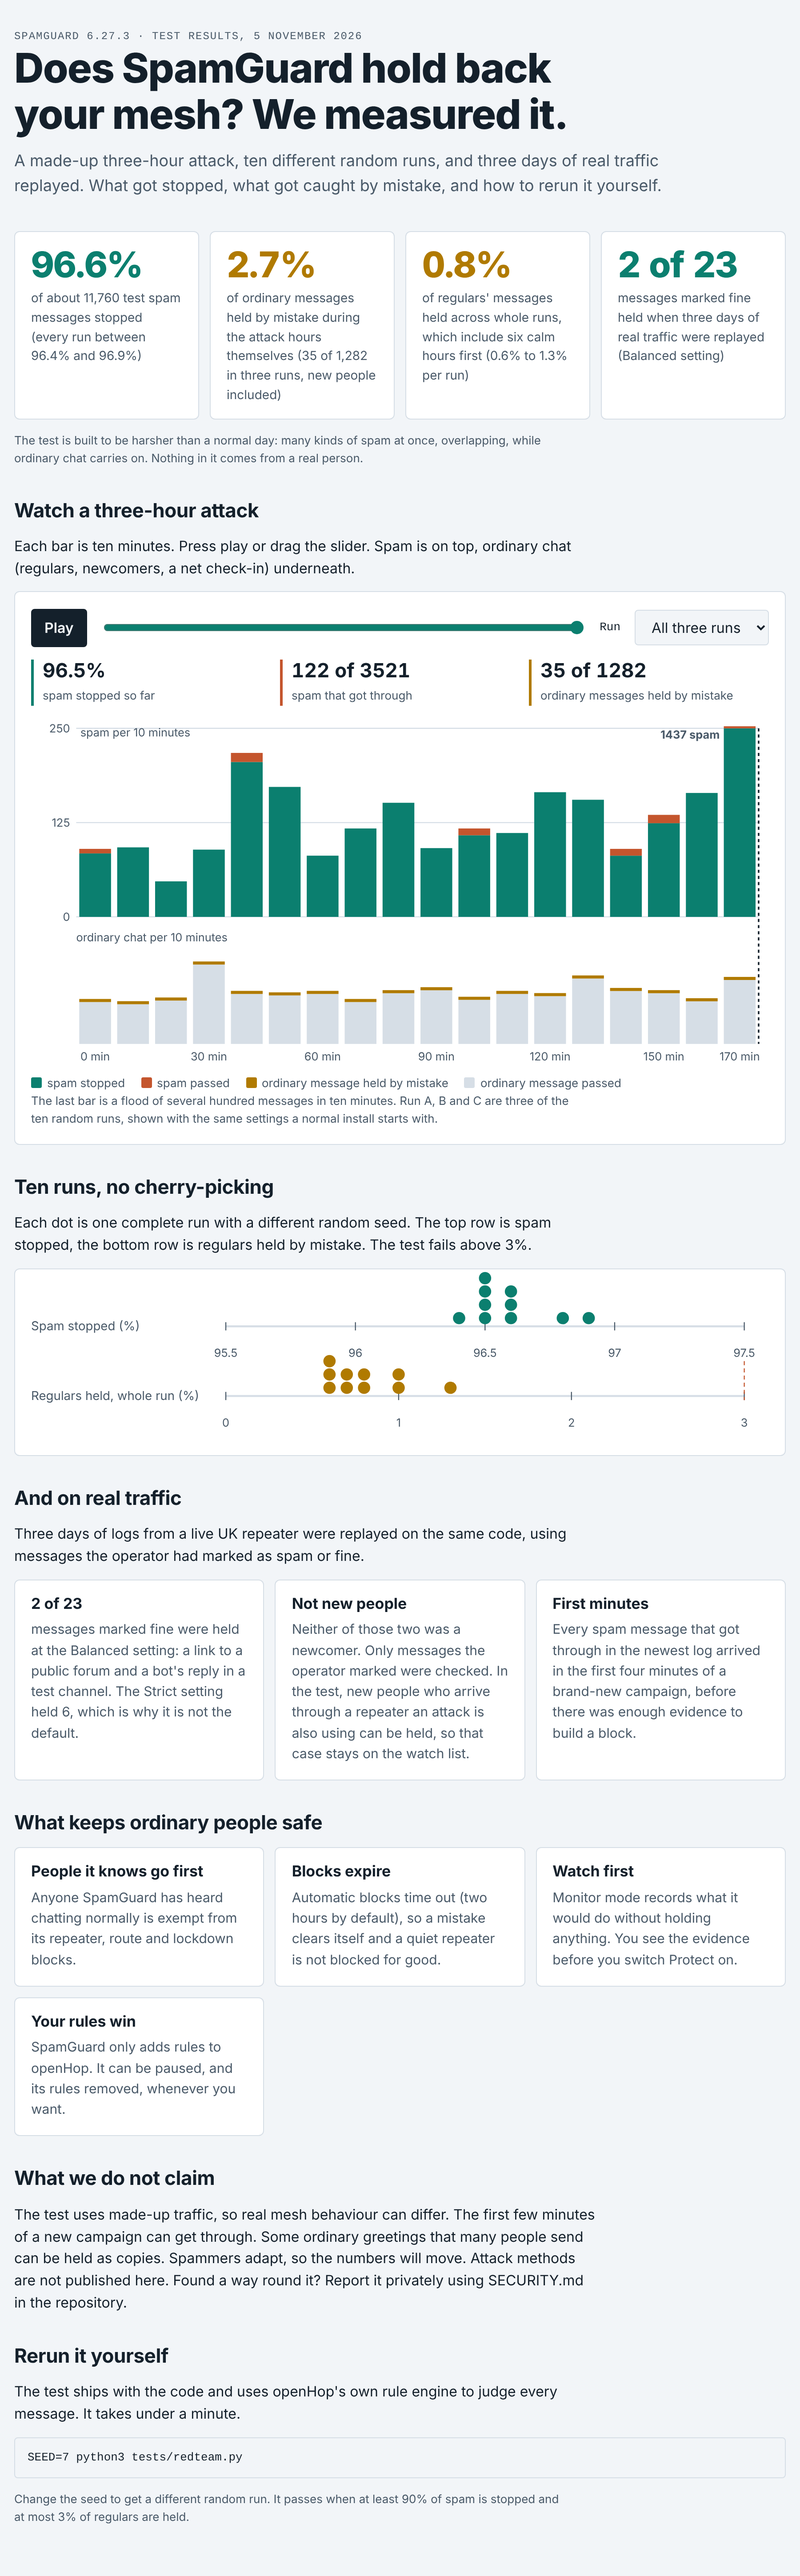
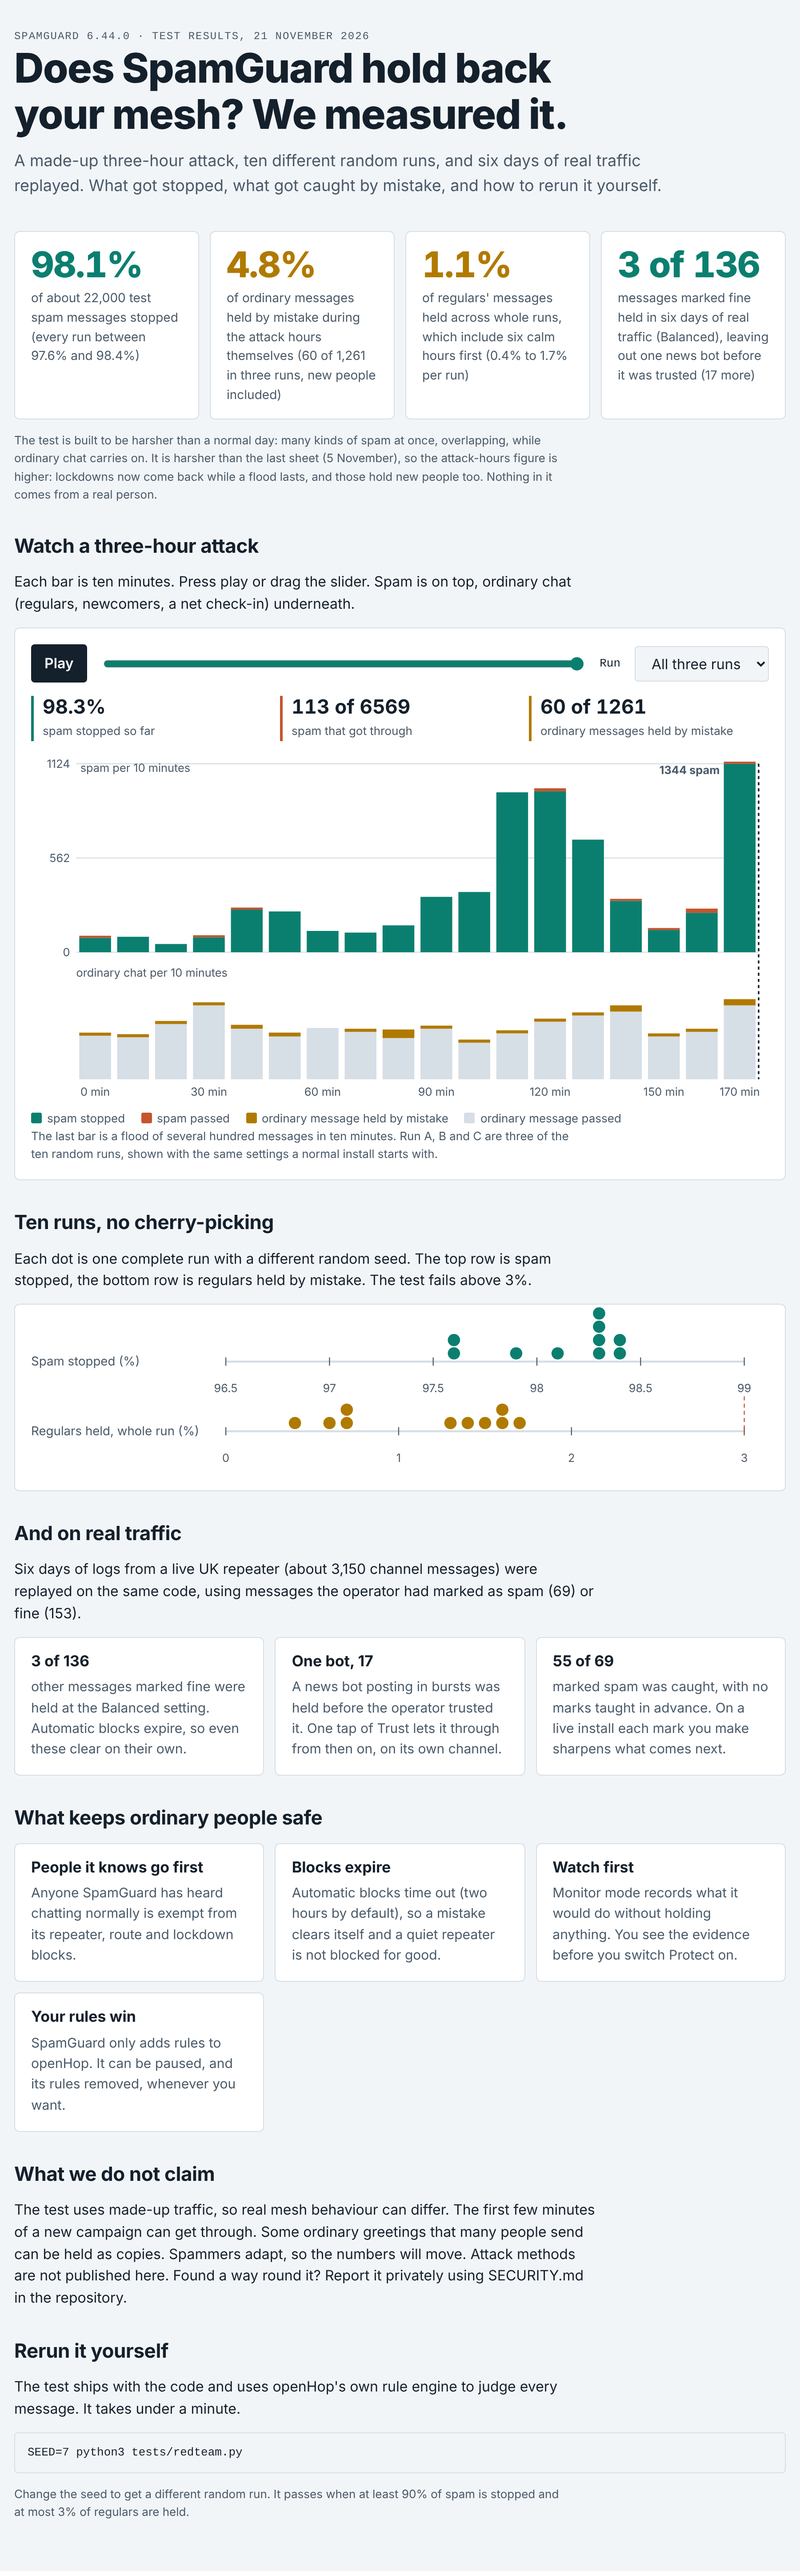
Refresh proof page and People screenshot for 6.44.0 (#107)
New figures from ten red team runs and six days of replayed traffic,
and a People screenshot showing the trust and marks details.

Claude-Session: https://claude.ai/code/session_01Pgqm4Xa1efNsThaFFNfH7N

diff --git a/docs/proof-sheet.html b/docs/proof-sheet.html
@@ -62,19 +62,19 @@ svg text{fill:var(--ink2);font-family:var(--sans)}
 <body>
 <main>
   <header>
-    <div class="eyebrow">SpamGuard 6.27.3 · test results, 5 November 2026</div>
+    <div class="eyebrow">SpamGuard 6.44.0 · test results, 21 November 2026</div>
     <h1>Does SpamGuard hold back your mesh? We measured it.</h1>
-    <p class="lede">A made-up three-hour attack, ten different random runs, and three days of real traffic replayed. What got stopped, what got caught by mistake, and how to rerun it yourself.</p>
+    <p class="lede">A made-up three-hour attack, ten different random runs, and six days of real traffic replayed. What got stopped, what got caught by mistake, and how to rerun it yourself.</p>
   </header>
 
   <section aria-label="Headline numbers">
     <div class="nums">
-      <div class="num good"><b>96.6%</b><span>of about 11,760 test spam messages stopped (every run between 96.4% and 96.9%)</span></div>
-      <div class="num warn"><b>2.7%</b><span>of ordinary messages held by mistake during the attack hours themselves (35 of 1,282 in three runs, new people included)</span></div>
-      <div class="num warn"><b>0.8%</b><span>of regulars' messages held across whole runs, which include six calm hours first (0.6% to 1.3% per run)</span></div>
-      <div class="num good"><b>2 of 23</b><span>messages marked fine held when three days of real traffic were replayed (Balanced setting)</span></div>
+      <div class="num good"><b>98.1%</b><span>of about 22,000 test spam messages stopped (every run between 97.6% and 98.4%)</span></div>
+      <div class="num warn"><b>4.8%</b><span>of ordinary messages held by mistake during the attack hours themselves (60 of 1,261 in three runs, new people included)</span></div>
+      <div class="num warn"><b>1.1%</b><span>of regulars' messages held across whole runs, which include six calm hours first (0.4% to 1.7% per run)</span></div>
+      <div class="num good"><b>3 of 136</b><span>messages marked fine held in six days of real traffic (Balanced), leaving out one news bot before it was trusted (17 more)</span></div>
     </div>
-    <p class="note">The test is built to be harsher than a normal day: many kinds of spam at once, overlapping, while ordinary chat carries on. Nothing in it comes from a real person.</p>
+    <p class="note">The test is built to be harsher than a normal day: many kinds of spam at once, overlapping, while ordinary chat carries on. It is harsher than the last sheet (5 November), so the attack-hours figure is higher: lockdowns now come back while a flood lasts, and those hold new people too. Nothing in it comes from a real person.</p>
   </section>
 
   <section aria-labelledby="tl">
@@ -111,16 +111,16 @@ svg text{fill:var(--ink2);font-family:var(--sans)}
   <section aria-labelledby="runs">
     <h2 id="runs">Ten runs, no cherry-picking</h2>
     <p>Each dot is one complete run with a different random seed. The top row is spam stopped, the bottom row is regulars held by mistake. The test fails above 3%.</p>
-    <div class="card"><svg id="dots" viewBox="0 0 720 150" role="img" aria-label="Ten test runs: spam stopped between 96.4 and 96.9 percent, regulars held between 0.6 and 1.3 percent"></svg></div>
+    <div class="card"><svg id="dots" viewBox="0 0 720 150" role="img" aria-label="Ten test runs: spam stopped between 97.6 and 98.4 percent, regulars held between 0.4 and 1.7 percent"></svg></div>
   </section>
 
   <section aria-labelledby="real">
     <h2 id="real">And on real traffic</h2>
-    <p>Three days of logs from a live UK repeater were replayed on the same code, using messages the operator had marked as spam or fine.</p>
+    <p>Six days of logs from a live UK repeater (about 3,150 channel messages) were replayed on the same code, using messages the operator had marked as spam (69) or fine (153).</p>
     <div class="cols">
-      <div class="card"><h3>2 of 23</h3><p>messages marked fine were held at the Balanced setting: a link to a public forum and a bot's reply in a test channel. The Strict setting held 6, which is why it is not the default.</p></div>
-      <div class="card"><h3>Not new people</h3><p>Neither of those two was a newcomer. Only messages the operator marked were checked. In the test, new people who arrive through a repeater an attack is also using can be held, so that case stays on the watch list.</p></div>
-      <div class="card"><h3>First minutes</h3><p>Every spam message that got through in the newest log arrived in the first four minutes of a brand-new campaign, before there was enough evidence to build a block.</p></div>
+      <div class="card"><h3>3 of 136</h3><p>other messages marked fine were held at the Balanced setting. Automatic blocks expire, so even these clear on their own.</p></div>
+      <div class="card"><h3>One bot, 17</h3><p>A news bot posting in bursts was held before the operator trusted it. One tap of Trust lets it through from then on, on its own channel.</p></div>
+      <div class="card"><h3>55 of 69</h3><p>marked spam was caught, with no marks taught in advance. On a live install each mark you make sharpens what comes next.</p></div>
     </div>
   </section>
 
@@ -149,13 +149,13 @@ svg text{fill:var(--ink2);font-family:var(--sans)}
 
 <script>
 const RUNS = {
-  "7":[[34,34,20,2],[32,32,16,0],[19,19,21,0],[29,29,39,1],[68,64,19,1],[57,57,26,0],[27,27,21,0],[32,32,21,0],[50,50,27,0],[30,30,25,0],[41,38,16,0],[46,46,24,1],[54,54,18,0],[45,45,29,2],[27,24,27,0],[40,36,22,1],[55,55,21,1],[477,452,26,1]],
-  "1":[[30,27,16,0],[32,32,20,1],[11,11,17,1],[31,31,36,0],[79,75,24,0],[61,61,24,1],[25,25,29,0],[45,45,18,3],[40,40,24,2],[30,30,29,0],[34,31,20,0],[31,31,26,0],[60,60,23,0],[52,52,40,0],[36,33,25,2],[51,47,22,0],[53,53,16,0],[478,453,28,0]],
-  "2":[[26,23,23,0],[28,28,20,1],[17,17,22,0],[29,29,34,0],[70,66,28,2],[54,54,19,2],[29,29,20,2],[40,40,22,1],[61,61,21,1],[31,31,20,1],[42,39,25,1],[34,34,19,0],[51,51,25,1],[58,58,23,1],[27,24,23,1],[44,41,26,0],[56,56,23,1],[482,457,34,0]]
+  "7":[[34,34,20,2],[32,32,16,0],[19,19,21,0],[29,29,39,2],[92,88,14,1],[83,83,20,1],[44,44,20,0],[36,36,24,1],[52,52,25,5],[113,113,21,0],[125,125,18,0],[317,317,20,1],[320,314,19,1],[232,232,34,0],[107,107,29,2],[48,48,13,1],[68,68,23,0],[467,442,34,6]],
+  "1":[[30,28,15,0],[32,32,20,1],[13,13,29,1],[32,31,24,0],[83,80,27,3],[77,77,15,0],[42,42,27,0],[41,41,19,1],[56,56,20,2],[110,110,21,0],[119,119,16,0],[320,320,21,0],[324,318,26,0],[227,227,15,0],[99,99,39,4],[38,38,14,0],[130,105,19,1],[411,411,44,1]],
+  "2":[[26,24,23,0],[28,28,20,1],[17,17,22,0],[29,29,34,0],[89,86,29,1],[83,83,25,4],[41,41,19,0],[40,40,21,1],[52,52,19,4],[107,107,24,1],[115,115,17,4],[316,316,20,1],[333,327,30,0],[212,212,34,1],[103,100,27,2],[48,46,30,1],[62,62,21,1],[466,441,25,1]]
 };
 /* each row: [spam sent, spam stopped, regular messages sent, regular messages held by mistake] */
-const SEEDS_SPAM=[96.4,96.5,96.9,96.6,96.5,96.8,96.6,96.5,96.5,96.6];
-const SEEDS_REG=[0.6,1.3,0.8,0.8,1.0,0.7,0.6,1.0,0.7,0.6];
+const SEEDS_SPAM=[98.3,98.1,98.4,98.3,97.6,97.9,98.4,98.3,97.6,98.3];
+const SEEDS_REG=[0.4,1.5,1.4,0.7,1.3,0.6,1.6,1.7,0.7,1.6];
 const $=id=>document.getElementById(id), NS="http://www.w3.org/2000/svg";
 function el(n,a,p){const e=document.createElementNS(NS,n);for(const k in a)e.setAttribute(k,a[k]);if(p)p.appendChild(e);return e}
 function rows(){const k=$("run").value;if(k!=="all")return RUNS[k];
@@ -192,12 +192,12 @@ function draw(){
 }
 function dots(){
   const svg=$("dots"),L=190,W=720,R=24;
-  const rowsD=[["Spam stopped (%)",SEEDS_SPAM,95.5,97.5],["Regulars held, whole run (%)",SEEDS_REG,0,3]];
+  const rowsD=[["Spam stopped (%)",SEEDS_SPAM,96.5,99],["Regulars held, whole run (%)",SEEDS_REG,0,3]];
   rowsD.forEach(([name,vals,lo,hi],ri)=>{
     const y=40+ri*68, x=v=>L+(v-lo)/(hi-lo)*(W-L-R);
     const t=el("text",{x:0,y:y+4,"font-size":12},svg);t.textContent=name;
     el("line",{x1:L,x2:W-R,y1:y,y2:y,stroke:"var(--line)","stroke-width":2},svg);
-    const ticks=ri===0?[95.5,96,96.5,97,97.5]:[0,1,2,3];
+    const ticks=ri===0?[96.5,97,97.5,98,98.5,99]:[0,1,2,3];
     ticks.forEach(v=>{const tt=el("text",{x:x(v),y:y+30,"text-anchor":"middle","font-size":11},svg);tt.textContent=v;el("line",{x1:x(v),x2:x(v),y1:y-4,y2:y+4,stroke:"var(--ink2)"},svg)});
     const seen={};
     vals.forEach(v=>{const k=v.toFixed(1);seen[k]=(seen[k]||0)+1;

diff --git a/docs/proof.md b/docs/proof.md
@@ -2,13 +2,13 @@
 
 For the full suite, coverage and the limits of the testing, see the [test scorecard](test-scorecard.md).
 
-A made-up three-hour attack run ten times with different random seeds, plus three days of real traffic replayed. Nothing in the test comes from a real person, and attack methods are not published.
+A made-up three-hour attack run ten times with different random seeds, plus six days of real traffic replayed. Nothing in the test comes from a real person, and attack methods are not published.
 
 ![SpamGuard proof sheet: results, attack timeline, ten runs and real-traffic replay](proof-sheet.png)
 
 An interactive version, with a play button and a slider for the timeline, is in [proof-sheet.html](proof-sheet.html). Download it and open it in a browser.
 
-**What the numbers say.** 96.6 percent of about 11,760 test spam messages were stopped, and every run landed between 96.4 and 96.9 percent. During the attack hours about 2.7 percent of ordinary messages were held by mistake (35 of 1,282 over three runs, new people included). Over whole runs, which include six calm hours first, 0.8 percent of regulars' messages were held. Replaying three days of real logs at the Balanced setting held 2 of 23 messages marked fine, and neither was from a new person.
+**What the numbers say.** 98.1 percent of about 22,000 test spam messages were stopped, and every run landed between 97.6 and 98.4 percent. During the attack hours about 4.8 percent of ordinary messages were held by mistake (60 of 1,261 over three runs, new people included); the test is harsher than the last one, and lockdowns now return while a flood lasts. Over whole runs, which include six calm hours first, 1.1 percent of regulars' messages were held. Replaying six days of real logs at the Balanced setting caught 55 of 69 messages marked spam and held 20 of 153 marked fine, 17 of them from one news bot before it was trusted.
 
 **What this does not show.** The test uses made-up traffic. The first minutes of a brand-new campaign can get through. New people arriving through a repeater an attack also uses can be held. Spammers adapt, so the numbers will move.
 
